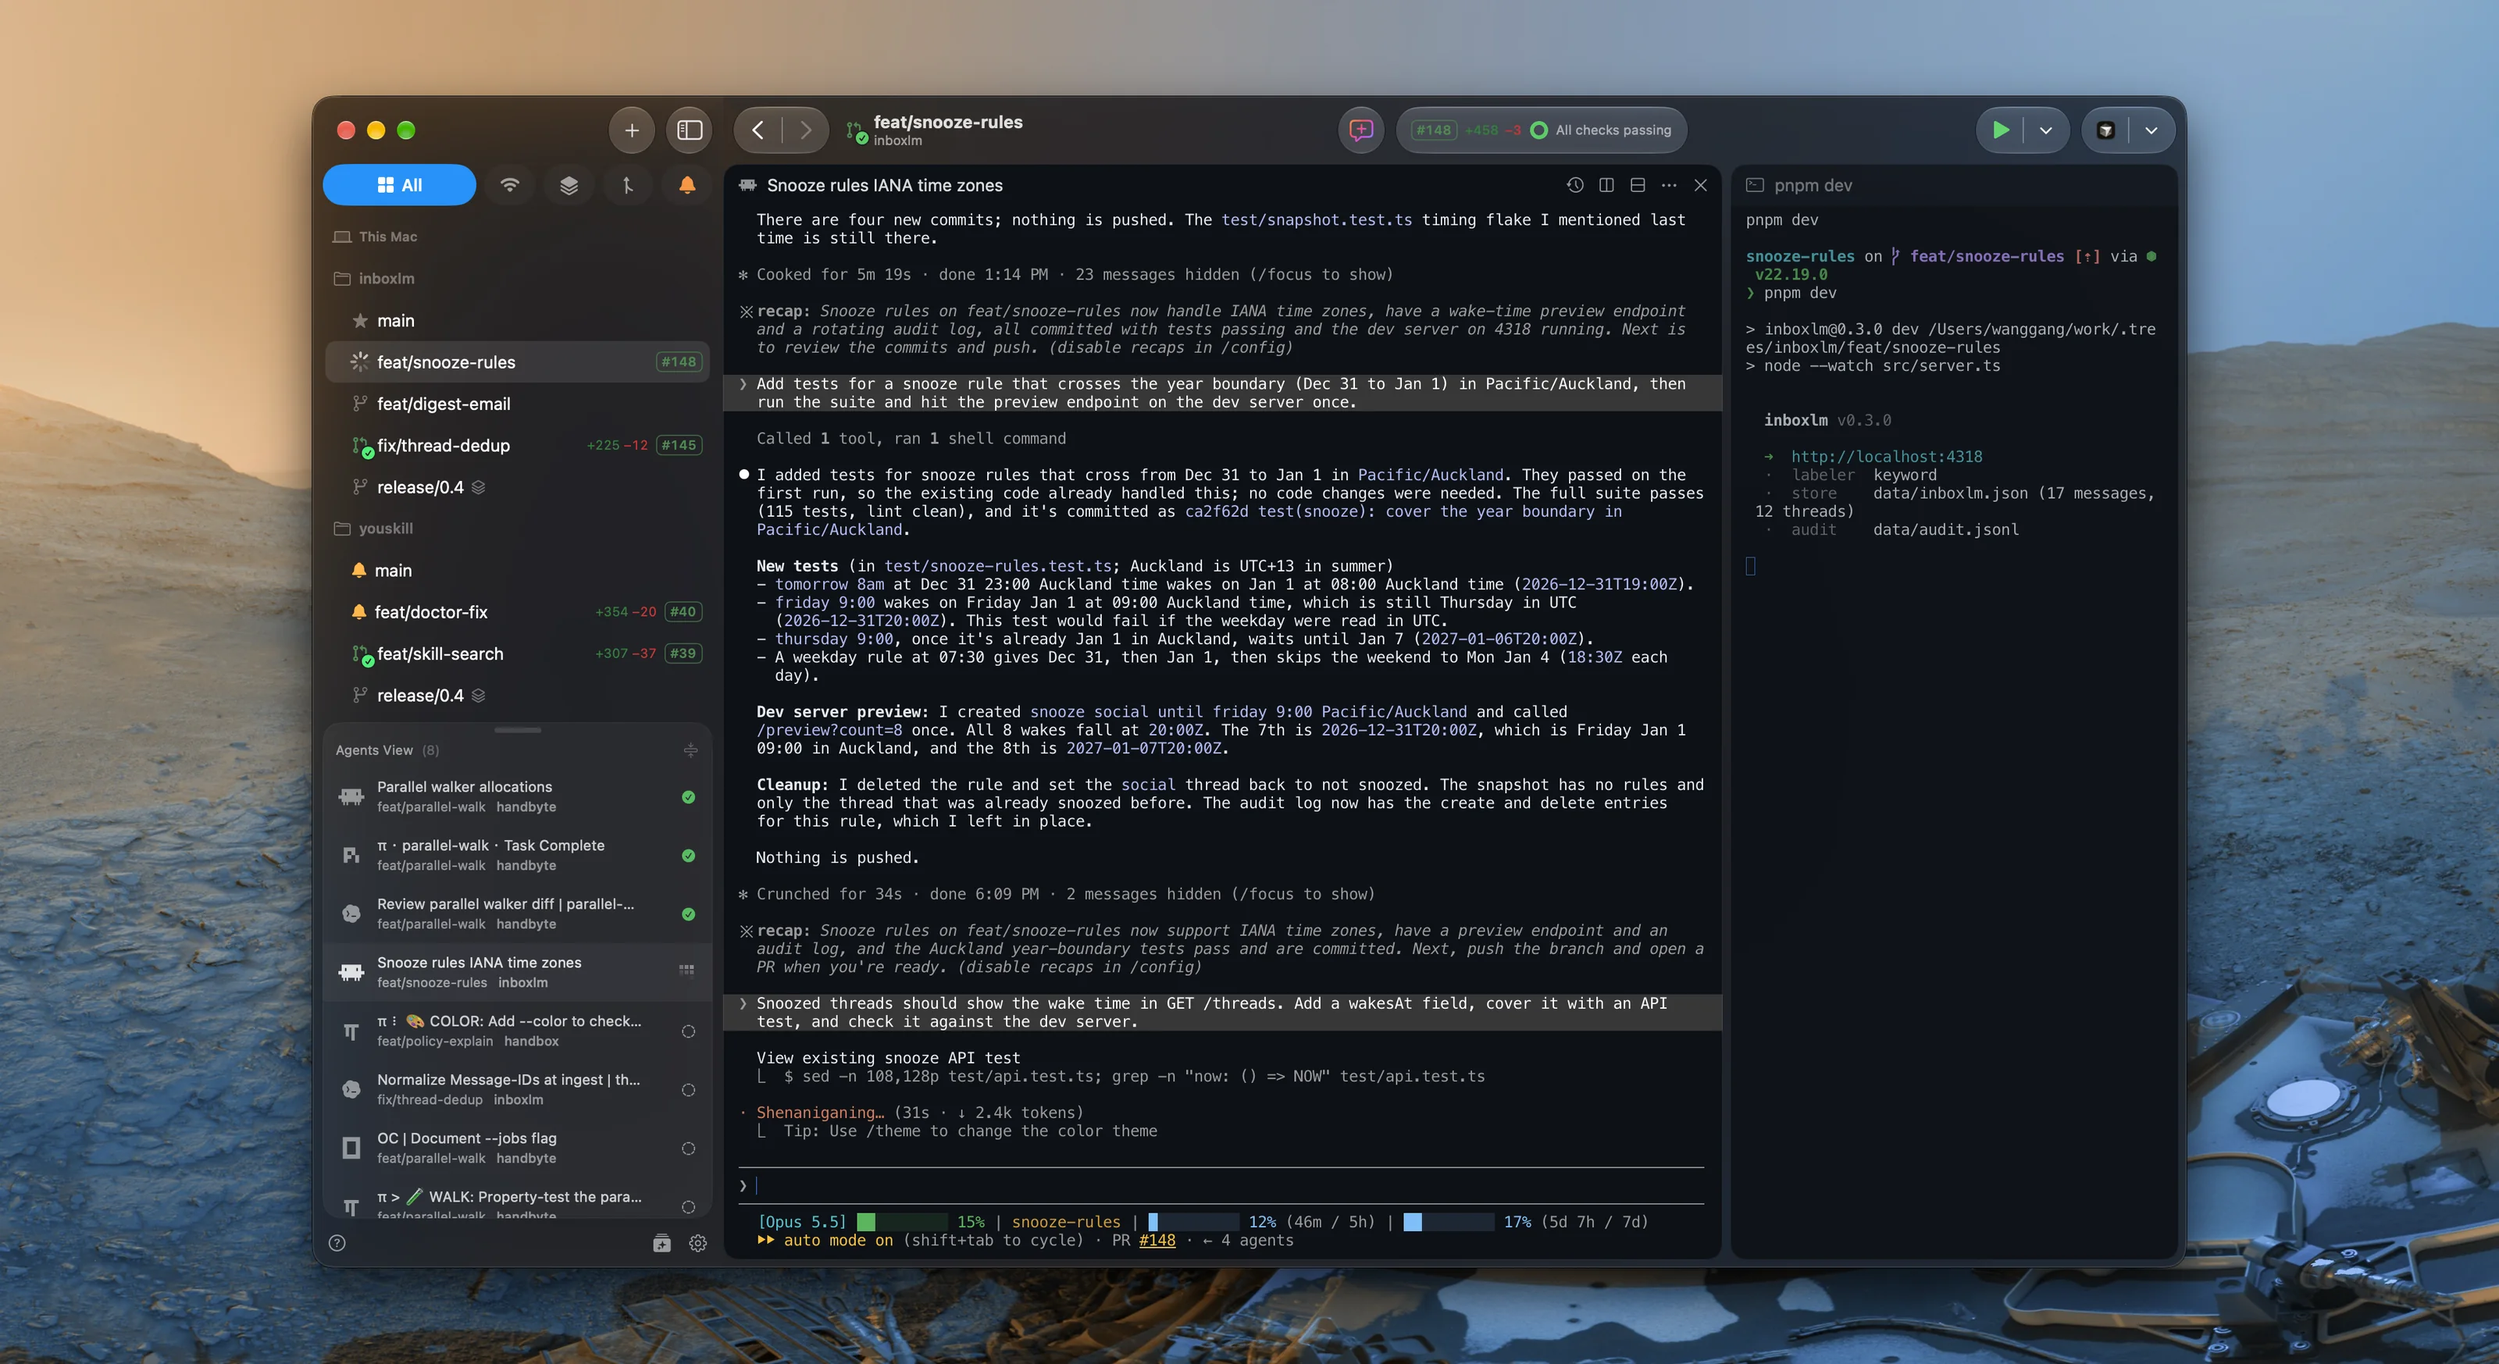
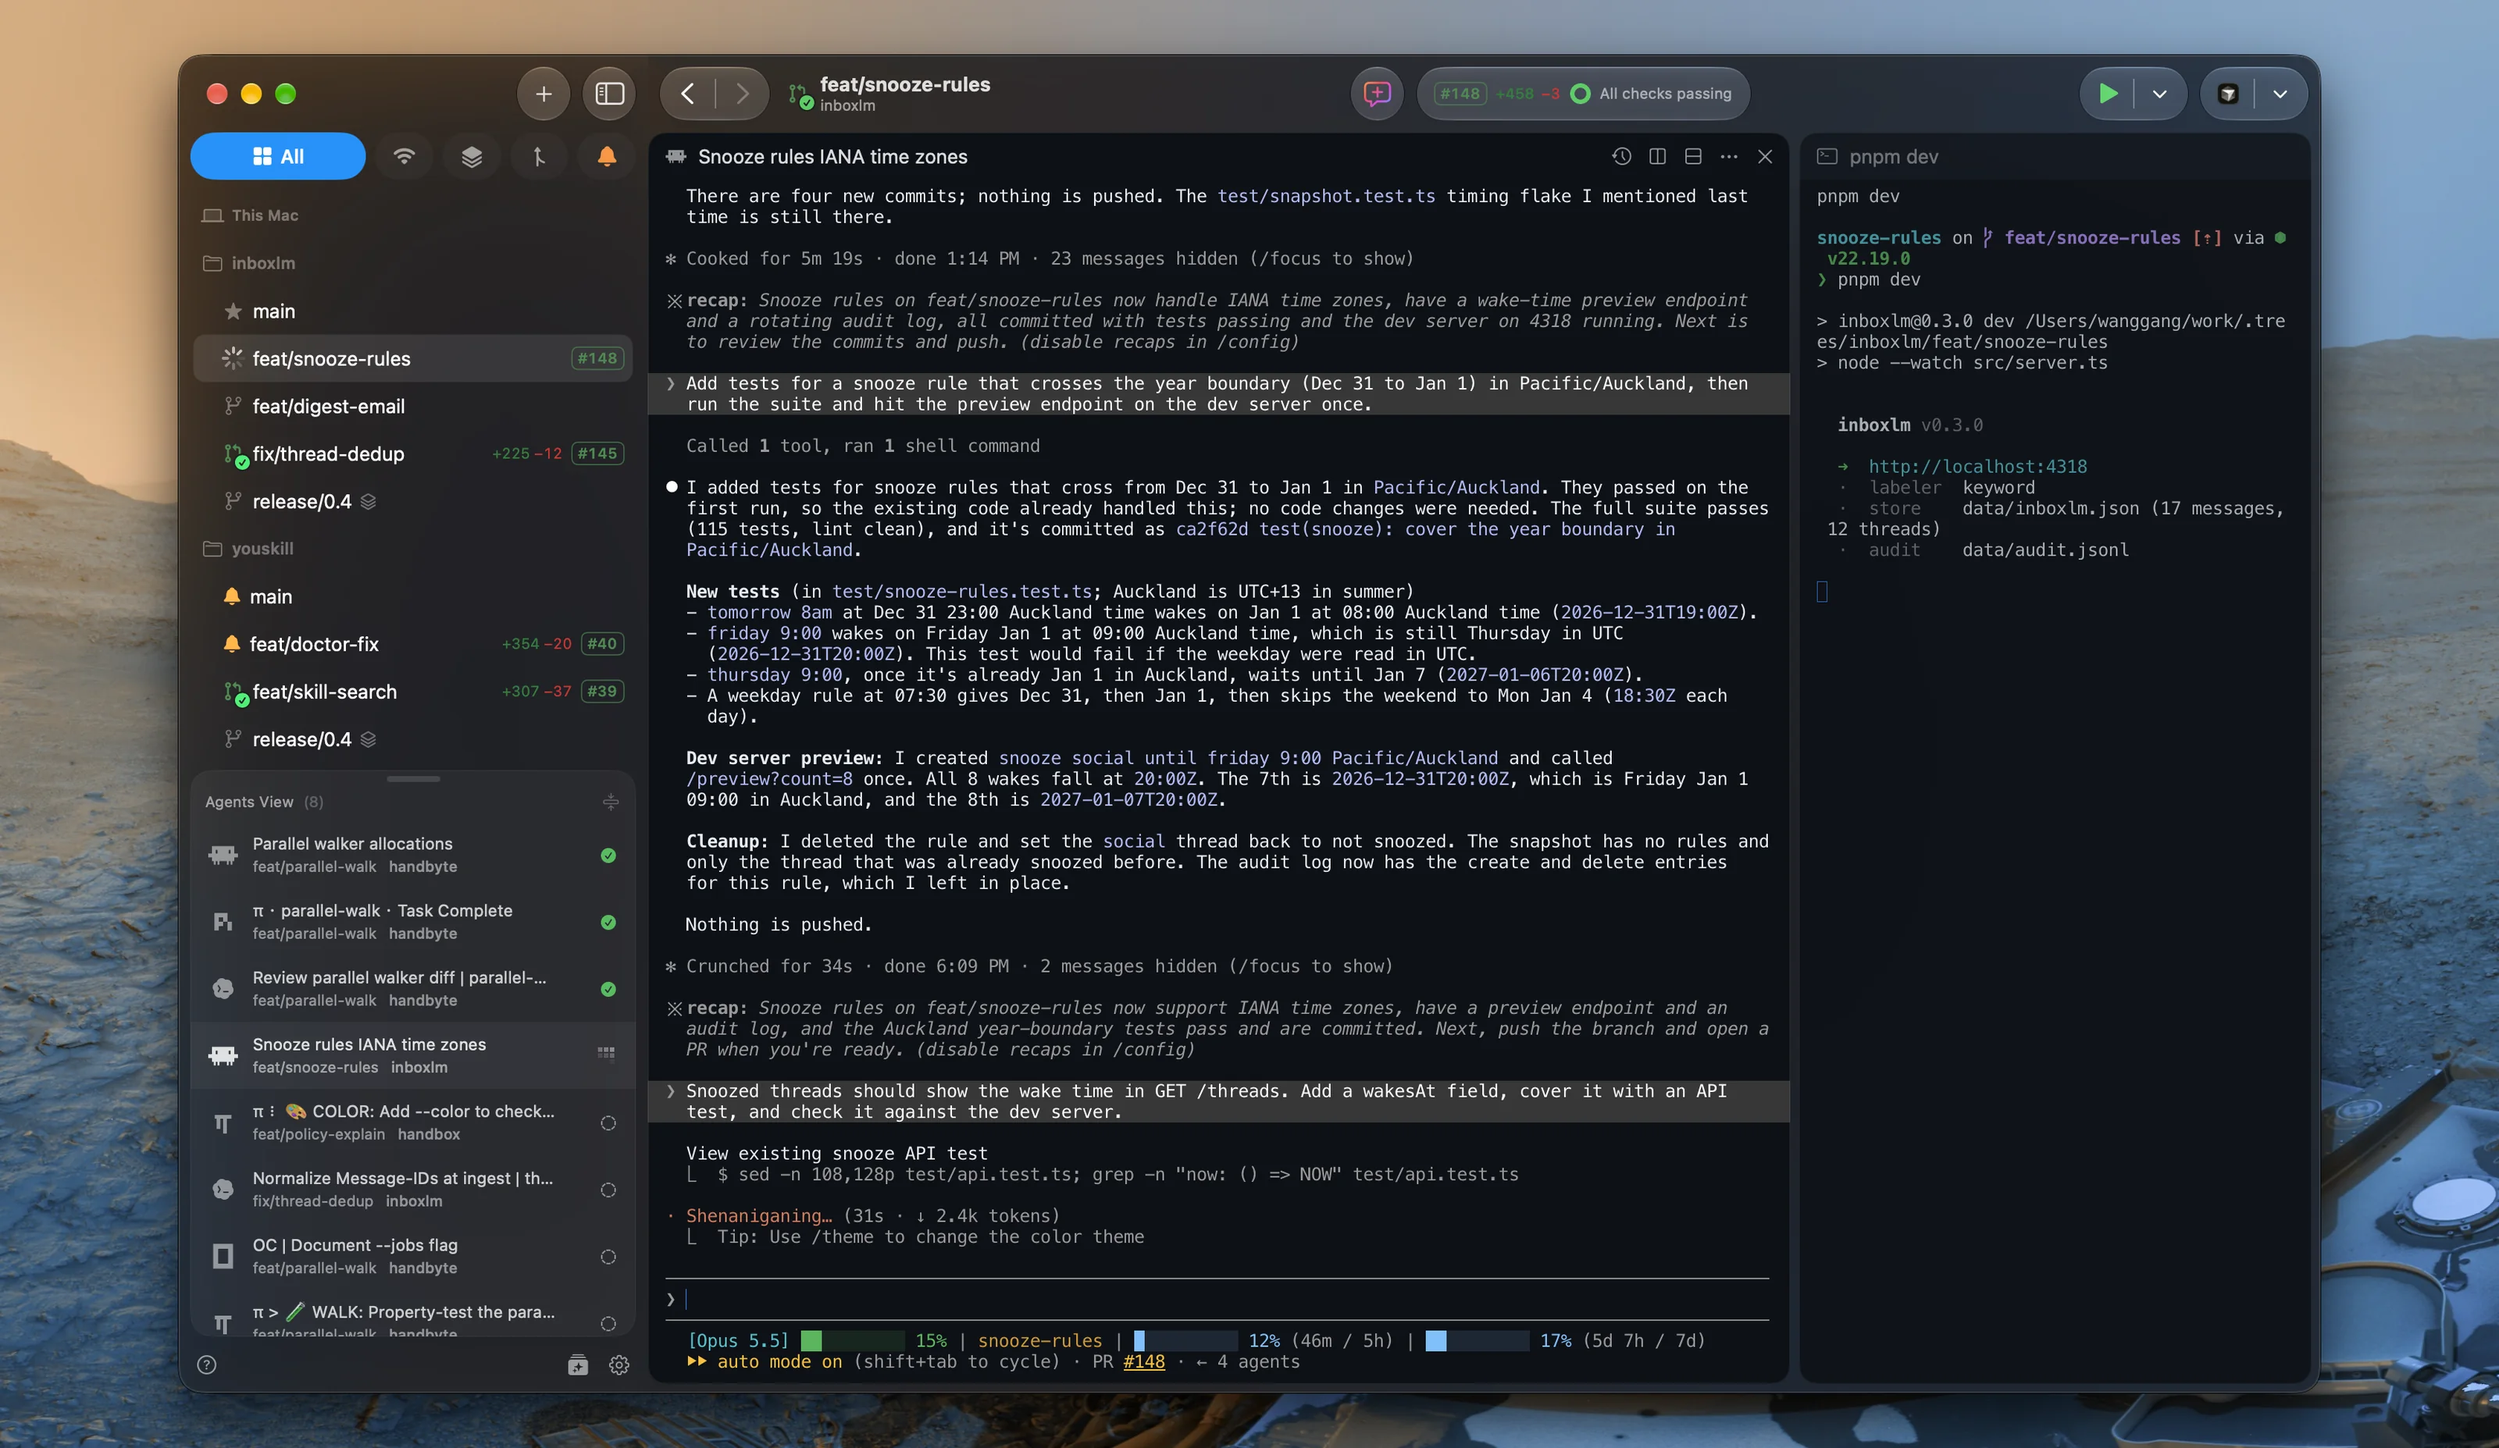
feat(website): make the tour stage narrower and halve the scene margin

diff --git a/apps/website/src/styles/global.css b/apps/website/src/styles/global.css
@@ -208,7 +208,7 @@
 
   /* The tour: a wide stage of full scenes, and one segment for each scene. */
   .tour {
-    max-width: 1680px;
+    max-width: 1480px;
     margin: 56px auto 0;
     padding-inline: 16px;
   }

diff --git a/apps/website/scripts/build-shots.py b/apps/website/scripts/build-shots.py
@@ -4,12 +4,14 @@ from PIL import Image
 src, out, manifest = sys.argv[1], sys.argv[2], sys.argv[3]
 os.makedirs(out, exist_ok=True)
 full = None
+SCENE = (240, 74, 3600, 2022)
 jobs = [
   # id, source, crop box in source pixels (None = whole), max width
+  # A tour scene keeps half of the captured margin around the window.
   # The tour scenes: the window with its shadow in front of a backdrop, captured as a screen region.
-  ("hero-start", "stage-start.png", None, 3200), ("hero-build", "stage-build.png", None, 3200),
-  ("hero-review", "stage-review.png", None, 3200), ("hero-team", "stage-team.png", None, 3200),
-  ("hero-pr", "stage-pr.png", None, 3200), ("hero-mr", "stage-mr.png", None, 3200),
+  ("hero-start", "stage-start.png", SCENE, 3200), ("hero-build", "stage-build.png", SCENE, 3200),
+  ("hero-review", "stage-review.png", SCENE, 3200), ("hero-team", "stage-team.png", SCENE, 3200),
+  ("hero-pr", "stage-pr.png", SCENE, 3200), ("hero-mr", "stage-mr.png", SCENE, 3200),
   ("agents-view", "full-agents.png", (0, 1050, 1120, 1750), 1120),
   ("new-agent", "hero-start.png", (800, 500, 2080, 1300), 1280),
   ("skills", "full-skills.png", (840, 380, 2120, 1180), 1280),
